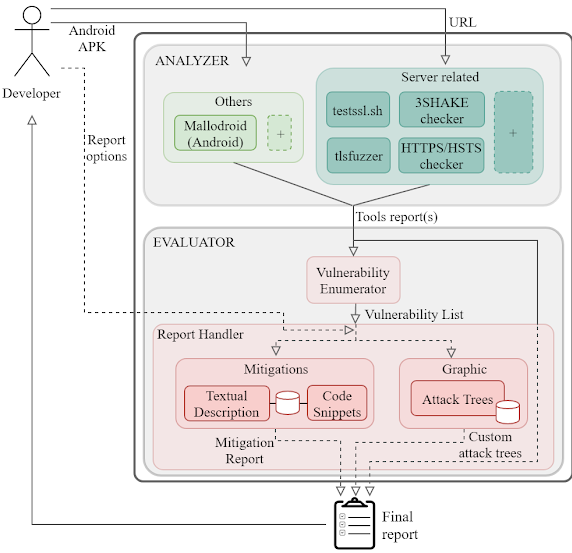
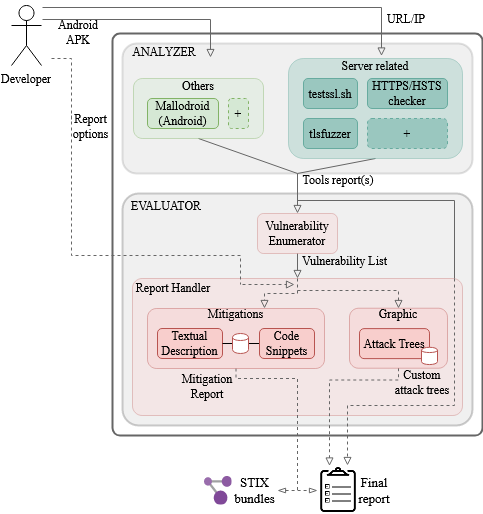
Update TLSAssistant page

Changed region(s): [[0.0, 0.0, 1.0, 0.9961], [0.0311, 0.2179, 0.0621, 0.9339]]

diff --git a/_tools/TLSAssistant.md b/_tools/TLSAssistant.md
@@ -36,7 +36,6 @@ TLSAssistant currently integrates four tools that provide state-of-the-art analy
 - [mallodroid](https://github.com/sfahl/mallodroid)
 - [testssl.sh](https://github.com/drwetter/testssl.sh)
 - [tlsfuzzer](https://github.com/tomato42/tlsfuzzer)
-- [TLS Extended_Master_Checker](https://github.com/Tripwire-VERT/TLS_Extended_Master_Checker)
 - **HTTP/HSTS checker** is the first module built in house, it contains a set of simple commands that can detect lack of proper HSTS configuration and other minor checks.
 
 ## Evaluator
@@ -54,6 +53,7 @@ It is the core of TLSAssistant and constitutes our main contribution. It is resp
 
 # Features
 
+### Mitigations
 Thanks to the integrated analyzers, TLSAssistant is currently able to detect and provide mitigations for: 
   - [3SHAKE](https://mitls.org/pages/attacks/3SHAKE)
   - [Bar Mitzvah](https://www.imperva.com/docs/HII_Attacking_SSL_when_using_RC4.pdf)
@@ -72,3 +72,29 @@ Thanks to the integrated analyzers, TLSAssistant is currently able to detect and
   - [SLOTH](https://www.mitls.org/pages/attacks/SLOTH)
   - [Sweet32](https://sweet32.info)
   - [Unsecure Android TrustManagers](https://dl.acm.org/citation.cfm?id=2382205)
+
+### Attack trees
+TLSAssistant is able to graphically represent the analysis result using a set of custom [attack trees](https://www.schneier.com/academic/archives/1999/12/attack_trees.html). Each tree consists of:
+- **A goal (root).** indicating which security property would be broken;
+- **Protocol/infrastructure subgoals.** displaying which protocol or infrastructure can be exploited in order to achieve the root goal;
+- **Technique subgoals.** showing the technique an attacker has to use in order
+to exploit the aforementioned protocol;
+- **Attacks (leaves).** is divided into boxes. The first one lists the
+prerequisites an attacker needs, the second one describes the steps needed to
+exploit the vulnerability and, if needed, a third one shows how the attack is
+concluded.
+
+The following image shows a simplified version of the output
+![stix_output](assets/TLSAssistant/atree_output.png)
+
+### STIX output
+TLSAssistant is able to export the analysis result in [STIX](https://oasis-open.github.io/cti-documentation/stix/intro), a language used to share cyber threat intelligence (CTI) that can be represented with objects and their descriptive relationships. 
+After every scan and for each discovered vulnerability, TLSAssistant generates a STIX bundle (JSON file) containing the following objects:
+1. vulnerability;
+2. course of action;
+3. relationship;
+4. observed data;
+5. sighting.
+
+The following image shows an example for the Bar Mitzvah attack
+![stix_output](assets/TLSAssistant/stix_output.jpg)
